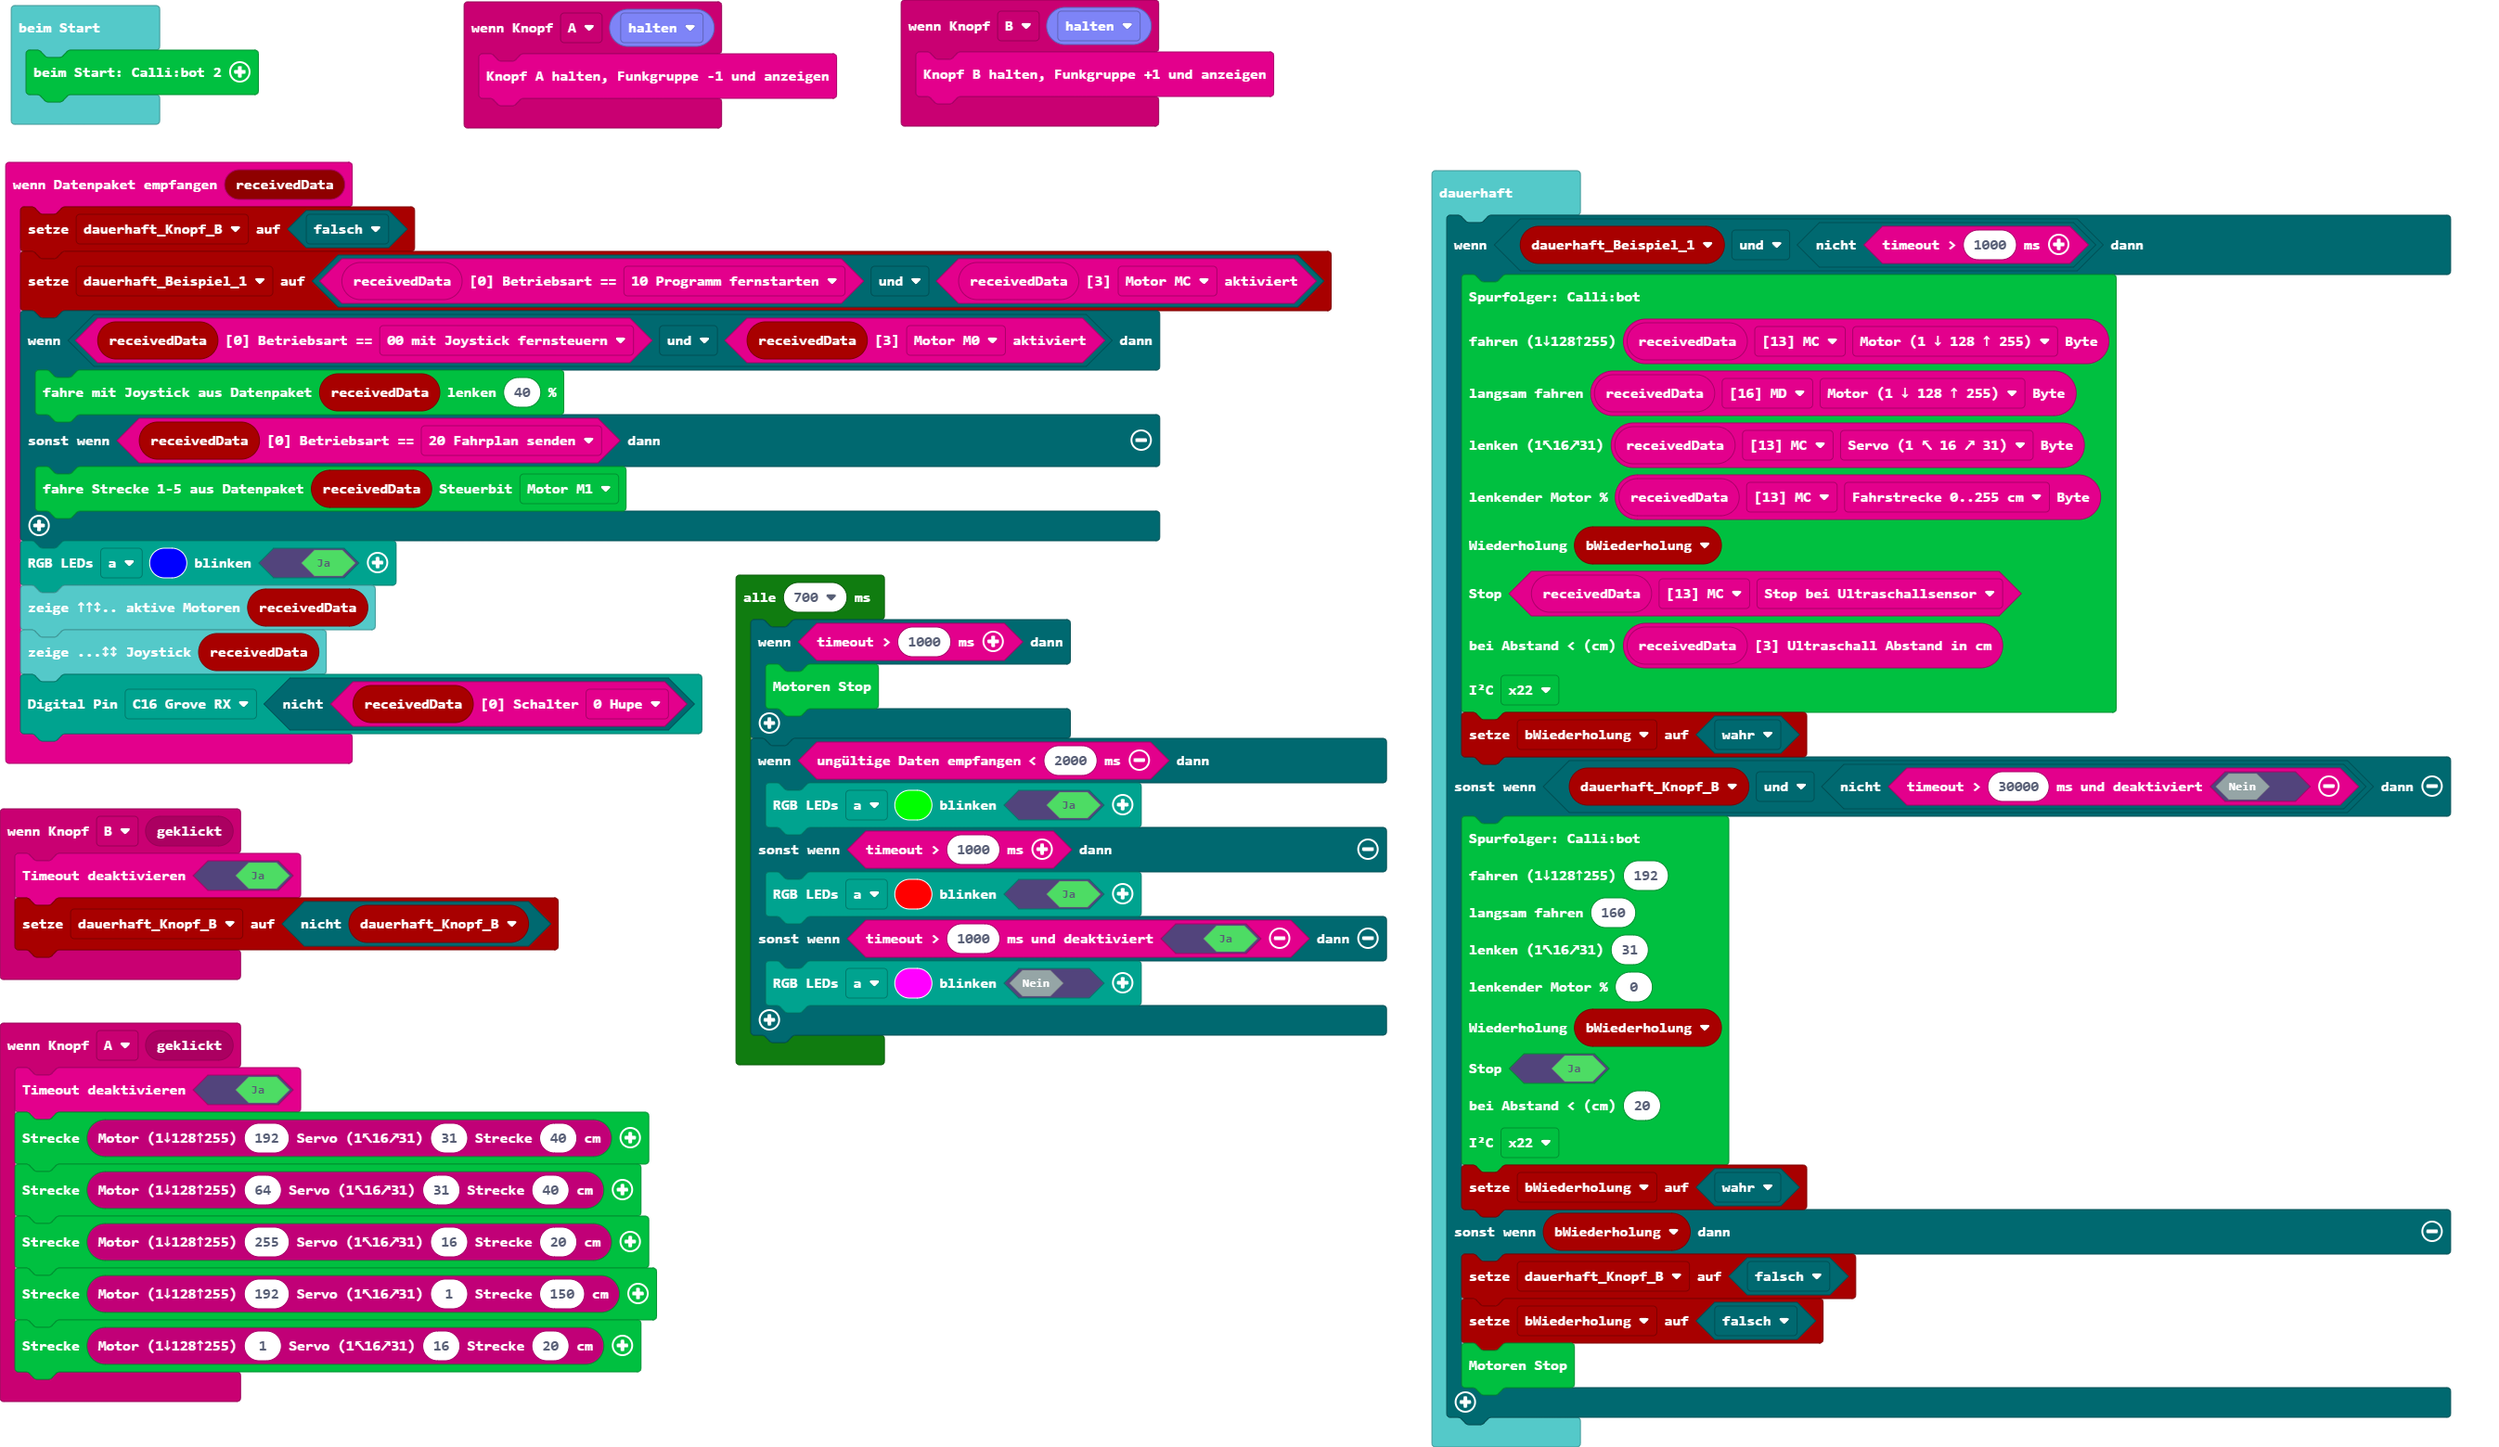
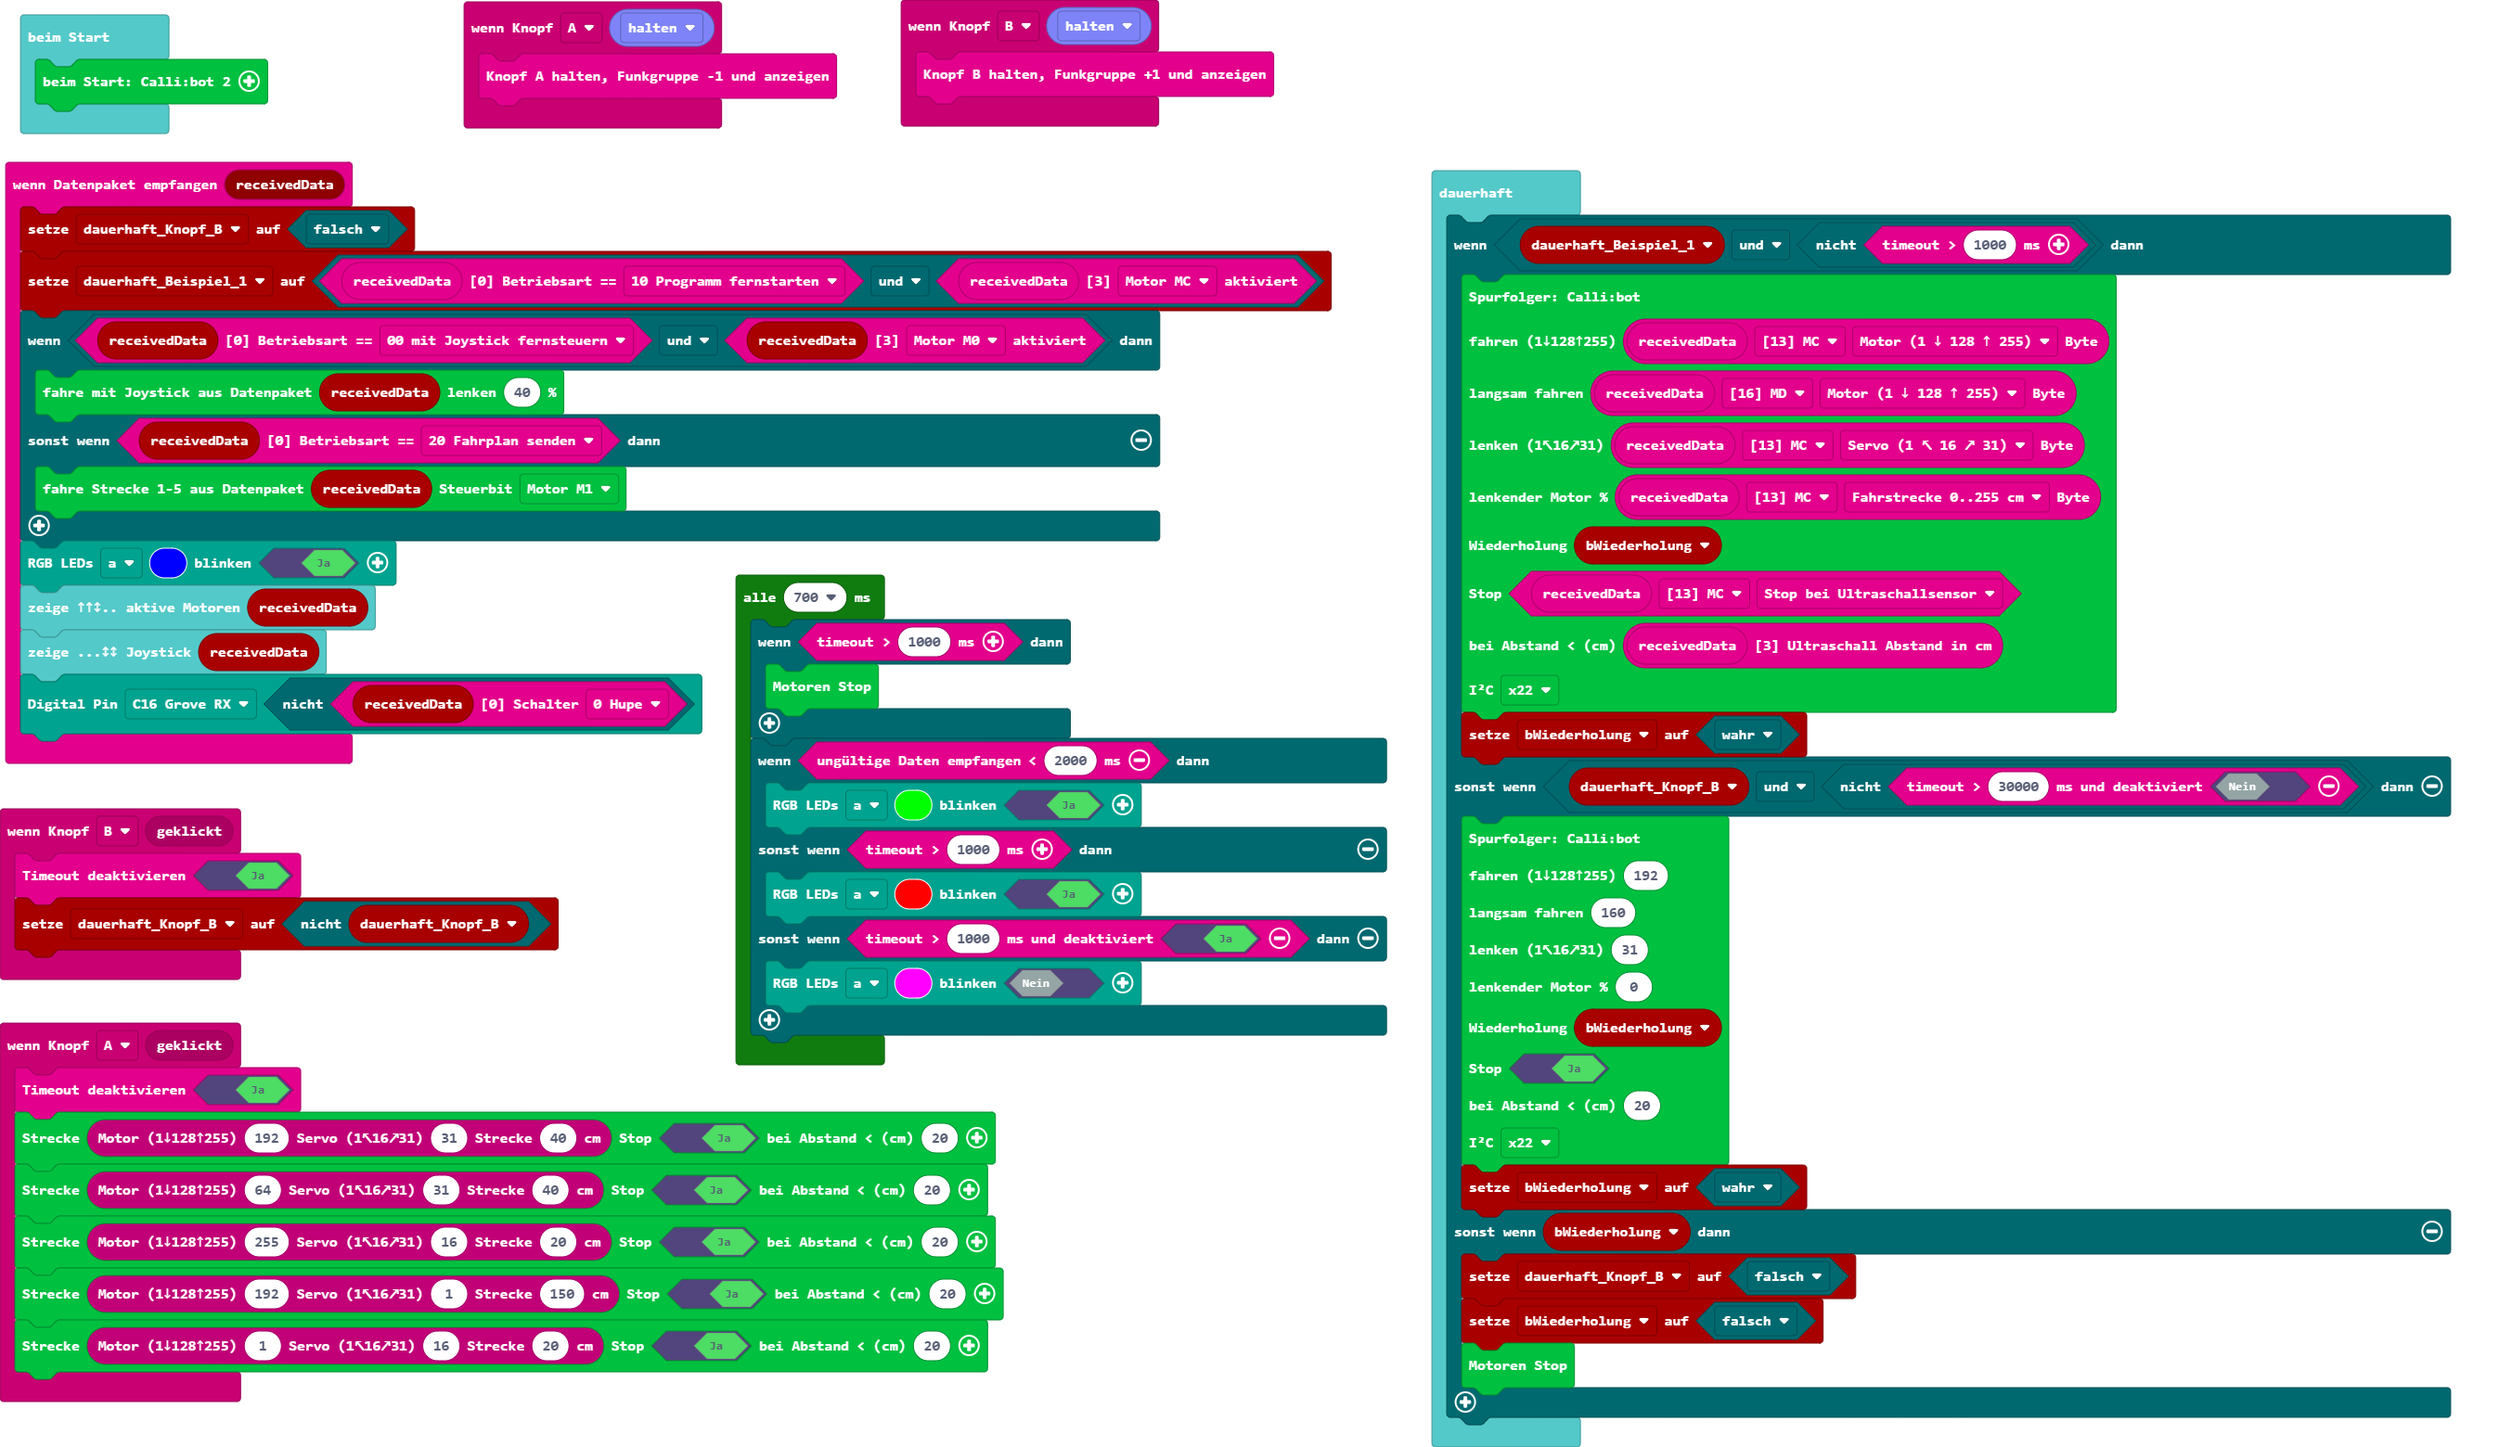
Aktualisiere pxt.json, main.blocks, main.ts

Changed region(s): [[0.2495, 0.7692, 0.4055, 0.9538], [0.0, 0.0, 0.1248, 0.0923]]

diff --git a/main.ts b/main.ts
@@ -1,10 +1,10 @@
 input.onButtonEvent(Button.A, input.buttonEventClick(), function () {
     btf.set_timeoutDisbled(true)
-    cb2.fahreStrecke(btf.programmSchritt(192, 31, 40))
-    cb2.fahreStrecke(btf.programmSchritt(64, 31, 40))
-    cb2.fahreStrecke(btf.programmSchritt(255, 16, 20))
-    cb2.fahreStrecke(btf.programmSchritt(192, 1, 150))
-    cb2.fahreStrecke(btf.programmSchritt(1, 16, 20))
+    cb2.fahreStreckeAbstand(btf.programmSchritt(192, 31, 40), true, 20)
+    cb2.fahreStreckeAbstand(btf.programmSchritt(64, 31, 40), true, 20)
+    cb2.fahreStreckeAbstand(btf.programmSchritt(255, 16, 20), true, 20)
+    cb2.fahreStreckeAbstand(btf.programmSchritt(192, 1, 150), true, 20)
+    cb2.fahreStreckeAbstand(btf.programmSchritt(1, 16, 20), true, 20)
 })
 input.onButtonEvent(Button.B, input.buttonEventClick(), function () {
     btf.set_timeoutDisbled(true)
